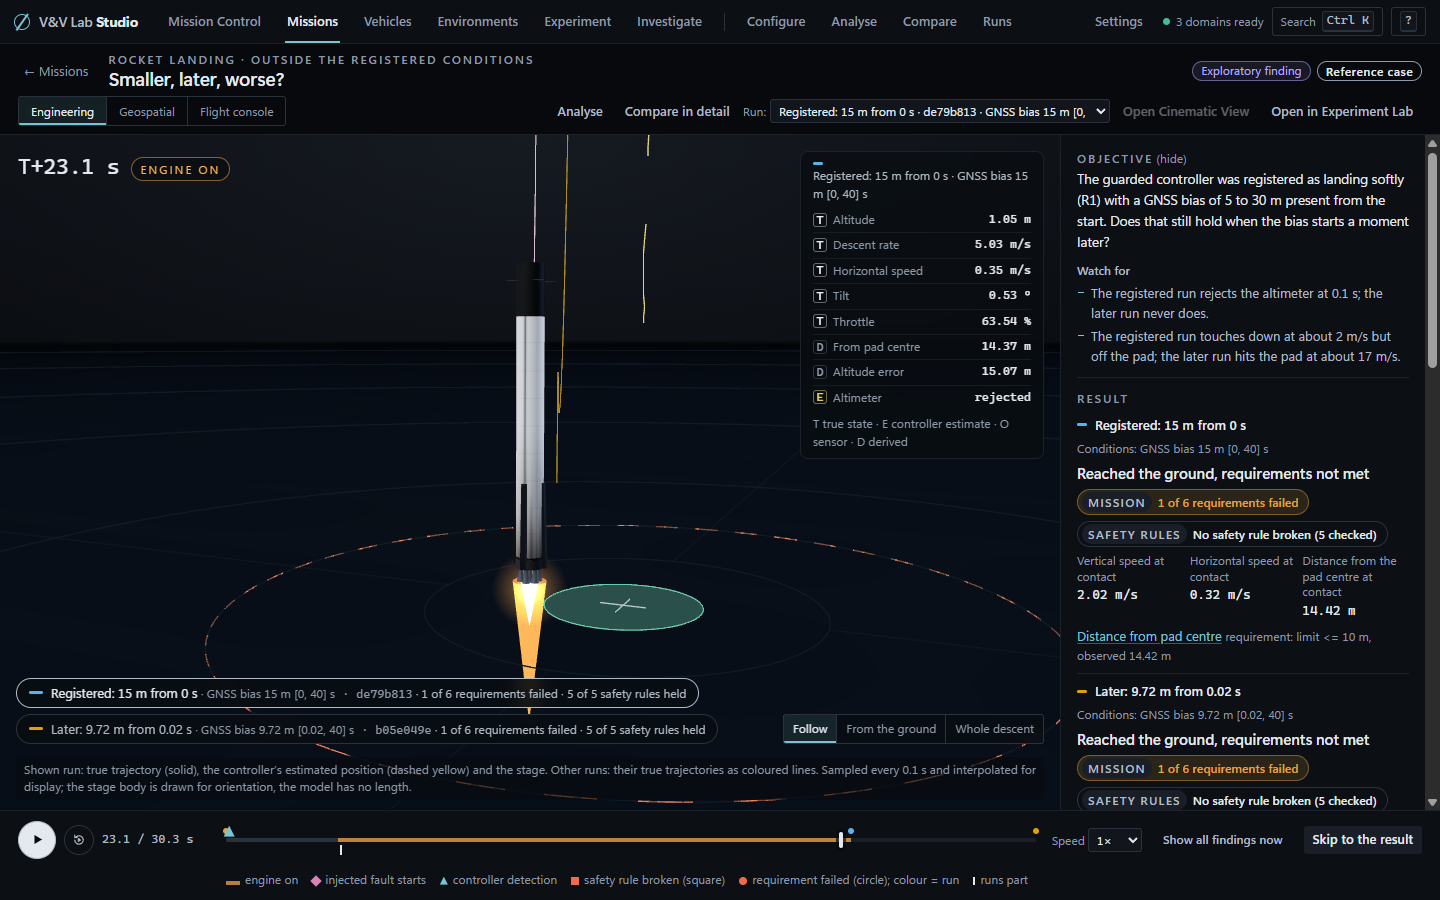
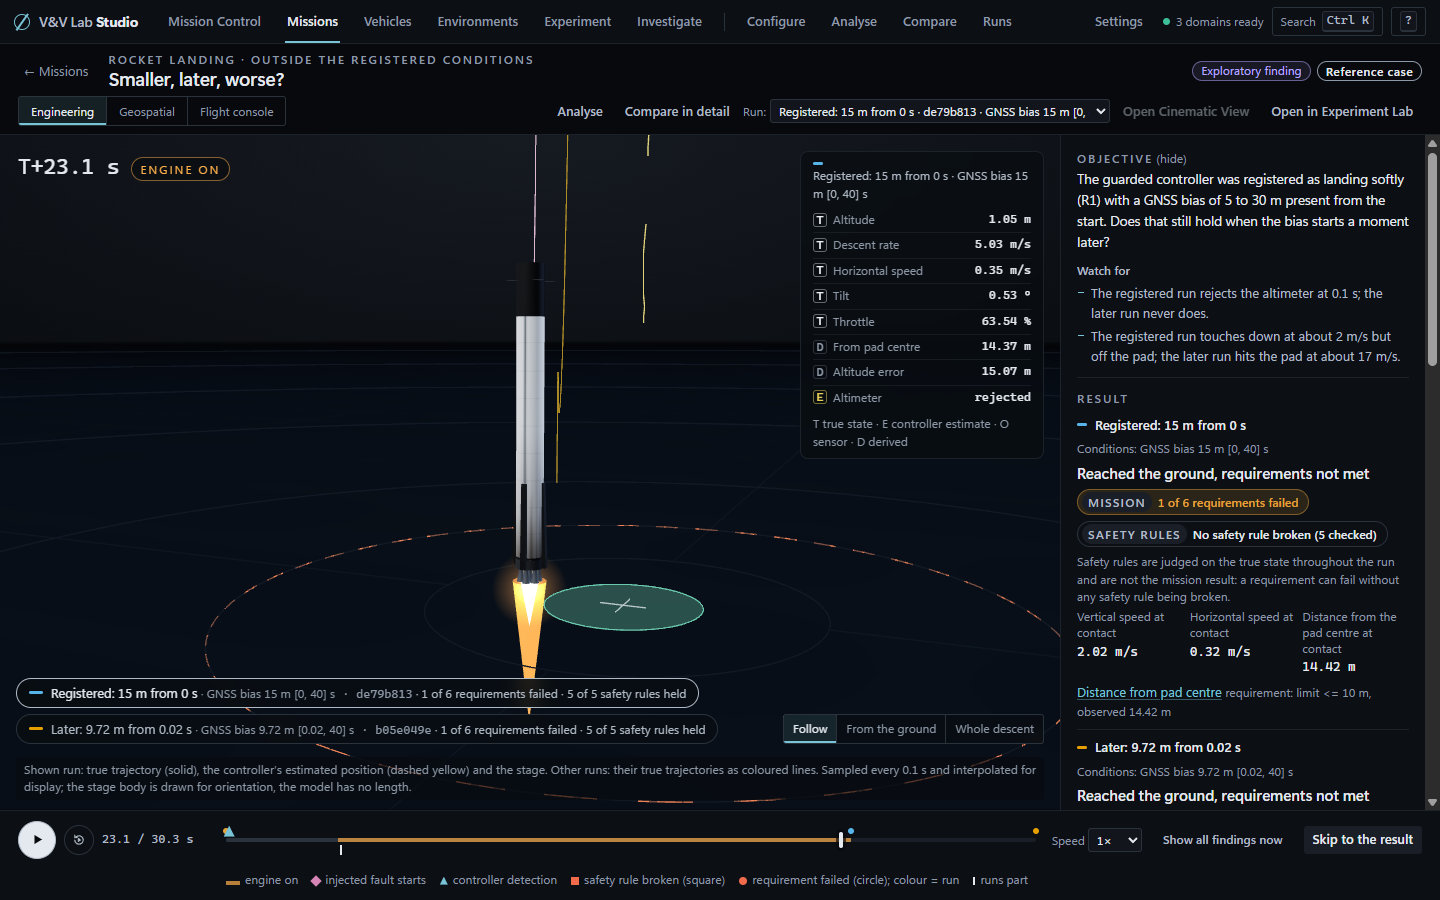
fix: scope note beside the safety chip, ground readings kept on short windows, neutral evidence integrity, labelled seed estimate

Changed region(s): [[0.75, 0.6222, 0.9688, 0.9022]]

diff --git a/desktop/studio/ui/js/views/player.js b/desktop/studio/ui/js/views/player.js
@@ -28,7 +28,7 @@ import { buildControl } from './control.js';
 import { sourcesInfo } from '../sources-info.js';
 import { openCatalogue } from '../env-catalogue.js';
 import { cinematicButton } from '../cinematic.js';
-import { reqView, safetyWording, SAFETY_NOTE, failureSentence, indexNumbers, statusLine, requirementWording, endChip, noFailureSentence, completionFacts, missionTone } from '../requirements.js';
+import { reqView, safetyWording, SAFETY_NOTE, failureSentence, indexNumbers, statusLine, requirementWording, endChip, noFailureSentence, completionFacts, missionTone, SAFETY_SCOPE } from '../requirements.js';
 import { conditionsName, conditionsBrief } from '../model.js';
 
 let root;
@@ -420,7 +420,7 @@ function build() {
 
   const stage = h('div', { class: 'pl-stage', id: 'pl-stage' });
   const viewport = h('div', { class: ['pl-viewport', rocket ? 'is-3d' : 'is-2d'], id: 'pl-viewport' });
-  const hud = h('div', { class: 'pl-hud', role: 'group', 'aria-label': 'Readouts at the playback time' });
+  const hud = h('div', { class: ['pl-hud', rocket ? 'is-rocket' : 'is-ground'], role: 'group', 'aria-label': 'Readouts at the playback time' });
   const phaseTag = h('div', { class: ['pl-phase', rocket ? '' : 'is-2d'], 'aria-hidden': 'true' });
   const runBar = runs.length > 1 ? h('div', { class: 'pl-runs', role: 'radiogroup', 'aria-label': 'Run shown in the scene' },
     runs.map((r, i) => h('button', { type: 'button', role: 'radio', class: 'pl-run', 'aria-checked': String(i === pl.active), dataset: { run: String(i) }, title: `${runFullName(r)} · ${shortId(r)}`, onclick: () => setActive(i) },
@@ -594,7 +594,7 @@ function onTime(t) {
   if (pl.dom.hud.hidden) { updateTransport(t); return; }
   pl.dom.hud.replaceChildren(
     h('p', { class: 'pl-hud-h' }, h('span', { class: 'pl-swatch', style: { background: run.colour } }), runFullName(run), ph.end && td ? h('span', { class: 'pl-hud-at' }, 'at contact') : null),
-    h('dl', null, readouts(run, t, rocket).map(([k, v, u, kind, title]) => h('div', { class: 'pl-hud-row', title },
+    h('dl', null, readouts(run, t, rocket).map(([k, v, u, kind, title], i) => h('div', { class: ['pl-hud-row', rocket && (i === 3 || i === 4) ? 'is-minor' : ''], title },
       h('dt', null, h('abbr', { class: `kind kind-${kind}`, title: KIND_WORD[kind] }, kind), k),
       h('dd', { class: 'mono' }, v === null ? '—' : typeof v === 'string' ? v : `${hudNum(v)}${u ? ` ${u}` : ''}`)))),
     h('p', { class: 'pl-hud-key' }, 'T true state · E controller estimate · O sensor · D derived'));
@@ -814,6 +814,8 @@ function runResult(run) {
     h('div', { class: 'pl-verdicts' },
       verdictChip(missionText, missionTone(rec), 'Mission'),
       verdictChip(safetyText, safetyTone, 'Safety rules', SAFETY_NOTE)),
+    // The scope of the safety chip, next to it: a mission requirement failed while no safety rule was broken.
+    sw.verdict === 'held' && missionTone(rec) === 'fail' ? h('p', { class: 'pl-fine pl-scope', dataset: { scope: '1' } }, SAFETY_SCOPE) : null,
     completionFacts(rec) ? h('p', { class: 'pl-run-clause small dim', dataset: { clause: '1' } }, completionFacts(rec).text) : null,
     metrics.length ? h('dl', { class: 'pl-metrics' }, metrics.map((m) => h('div', null, h('dt', null, m.label), h('dd', { class: 'mono' }, m.value === null ? '—' : `${hudNum(m.value)} ${m.unit}`)))) : null,
     failed.length ? h('ul', { class: 'pl-failed' }, failed.map((q) => h('li', null,
@@ -831,7 +833,7 @@ function changeSummary() {
       ? `${pl.runs[i].label} stays within ${d.tol} ${d.unit} of ${pl.runs[0].label} for the whole run.`
       : `${pl.runs[i].label} departs from ${pl.runs[0].label} by more than ${d.tol} ${d.unit} at ${timeText(d.t, pl.unit)}.`,
     d.t !== null ? ' ' : null,
-    d.t !== null ? h('button', { type: 'button', class: 'link small', onclick: () => { pl.cursor.pause(); pl.cursor.set(d.t); } }, 'Go there') : null));
+    d.t !== null ? h('button', { type: 'button', class: 'link small', title: 'Move the playback to the instant where the runs part', onclick: () => { pl.cursor.pause(); pl.cursor.set(d.t); } }, `Go to ${timeText(d.t, pl.unit)}`) : null));
   }
   return rows.length ? h('section', { class: 'pl-card' }, h('h2', null, 'Where the runs part'), h('ul', { class: 'pl-list' }, rows),
     h('p', { class: 'pl-fine' }, 'Derived from the recorded true positions, sample by sample. It marks where the motion differs, not why.')) : null;
@@ -846,11 +848,9 @@ function fillResult() {
       h('button', { type: 'button', class: 'btn', dataset: { action: 'reveal' }, onclick: () => revealNow() }, 'Show the result now')));
     return;
   }
-  const reqOnly = pl.runs.some((r) => r.record.safety.status === 'safe' && (r.record.requirements || []).some((q) => q.status === 'fail'));
   const heading = h('h2', { id: 'pl-result-h', tabindex: '-1' }, 'Result');
   pl.dom.resultHeading = heading;
-  clear(live).append(h('section', { class: 'pl-card pl-result', 'aria-labelledby': 'pl-result-h' }, heading, pl.runs.map((r) => runResult(r)),
-    reqOnly ? h('p', { class: 'pl-fine' }, 'A requirement can fail without any safety rule being broken. Mission requirements judge the landing or the goal; safety rules are judged on the true state throughout the run, so a hard or off-target landing can fail a requirement and still break no safety rule.') : null));
+  clear(live).append(h('section', { class: 'pl-card pl-result', 'aria-labelledby': 'pl-result-h' }, heading, pl.runs.map((r) => runResult(r))));
 }
 
 /** What follows the result: where the runs part and why it happened. Empty until the result is shown. */

diff --git a/desktop/studio/ui/js/views/discover.js b/desktop/studio/ui/js/views/discover.js
@@ -73,7 +73,7 @@ function chip(code, extra) {
 }
 
 function glyph(tone) {
-  const g = { ok: '✓', bad: '✕', warn: '◐', neutral: '○' }[tone] || '○';
+  const g = { ok: '✓', bad: '✕', warn: '◐', neutral: '○', held: '◇' }[tone] || '○';
   return h('span', { class: 'dl-glyph', 'aria-hidden': 'true' }, g);
 }
 
@@ -181,8 +181,9 @@ function rail() {
       h('span', { class: 'dl-item-title' }, p.title),
       h('span', { class: 'dl-item-sub mono' }, stamp(p.name)),
       h('span', { class: 'dl-item-chips' }, chip(verdictOf(p)),
-        vr ? h('span', { class: `dl-chip ${vr.pass ? 'ok' : 'bad'}` }, glyph(vr.pass ? 'ok' : 'bad'), vr.pass ? 'Recomputed' : 'Failed check')
-          : h('span', { class: `dl-chip ${stale ? 'warn' : 'neutral'}` }, glyph(stale ? 'warn' : 'neutral'), stale ? 'Changed since recomputed' : 'Not recomputed'))));
+        // Evidence integrity is not the verdict on the claim: a recomputation that passed is neutral, never the green of an approval.
+        vr ? h('span', { class: `dl-chip ${vr.pass ? 'held' : 'bad'}`, title: 'Whether the stored evidence was recomputed and agrees. It says nothing about whether the claim holds.' }, glyph(vr.pass ? 'held' : 'bad'), vr.pass ? 'Evidence integrity: recomputed' : 'Evidence integrity: a check failed')
+          : h('span', { class: `dl-chip ${stale ? 'warn' : 'neutral'}` }, glyph(stale ? 'warn' : 'neutral'), stale ? 'Evidence integrity: changed since recomputed' : 'Evidence integrity: not recomputed'))));
     }) : h('li', { class: 'empty small' }, 'No investigation yet. Choose a claim and challenge it.'));
   return h('aside', { class: 'dl-rail' },
     h('h2', { class: 'dl-rail-h' }, 'Claims'), claims,
@@ -410,7 +411,7 @@ function acceptance(p, vr) {
     tile('Evidence integrity', verified === null
       ? h('div', null, h('b', null, vr && vr.stale ? 'Changed since it was recomputed' : 'Not recomputed yet'), h('button', { type: 'button', class: 'btn btn-small', onclick: verify }, 'Recompute now'))
       : h('div', null, h('b', null, verified ? 'Recomputed, every check passed' : 'A check failed'), h('span', { class: 'small dim' }, `${vr.report.probes_recomputed.toLocaleString('en')} probes rerun · ${vr.verified_at_utc}`)),
-    verified === null ? (vr && vr.stale ? 'warn' : 'neutral') : verified ? 'ok' : 'bad'),
+    verified === null ? (vr && vr.stale ? 'warn' : 'neutral') : verified ? 'held' : 'bad'),
     tile('Claim', withdrawn ? gone('verdict') : h('div', null, h('b', null, word(f.verdict.claim)[0]), h('span', { class: 'small dim' }, word(f.verdict.claim)[2]), stated), withdrawn ? 'bad' : word(f.verdict.claim)[1]),
     tile('Mechanism', withdrawn ? gone('mechanism') : h('div', null, mech.length ? mech.map(([id, s2]) => h('div', { class: 'dl-tile-line' }, h('span', { class: 'mono small' }, id), chip(s2))) : h('b', null, 'No hypothesis declared')), withdrawn ? 'bad' : worst(mech)),
     tile('Mitigation', withdrawn ? gone('mitigation result') : h('div', null, mit.length ? mit.map(([id, s2]) => h('div', { class: 'dl-tile-line' }, h('span', { class: 'mono small' }, id), chip(s2))) : h('b', null, 'No mitigation declared')), withdrawn ? 'bad' : worst(mit)),

diff --git a/desktop/studio/ui/js/views/lab.js b/desktop/studio/ui/js/views/lab.js
@@ -654,14 +654,14 @@ function renderGeneralisation(el) {
   const fe = failsBy(g.exp);
   const labels = [...new Set([...fb.keys(), ...fe.keys()])];
   add(box, 
+    h('p', { class: 'lab-gen-caveat', dataset: { caveat: '1' } }, `An estimate on ${n} development seeds of an idealised model: not a reliability figure, and it does not validate the change.`),
     h('div', { class: 'lab-gen' },
-      h('div', null, h('p', { class: 'lab-gen-n' }, `${kb}/${n}`), h('p', { class: 'small' }, `baseline conditions meet every requirement and safety rule (95 % interval ${lb.toFixed(0)} to ${ub.toFixed(0)} %)`)),
-      h('div', null, h('p', { class: 'lab-gen-n' }, `${ke}/${n}`), h('p', { class: 'small' }, `your conditions meet every requirement and safety rule (95 % interval ${le.toFixed(0)} to ${ue.toFixed(0)} %)`))),
+      h('div', null, h('p', { class: 'lab-gen-n' }, `${kb}/${n} seeds`), h('p', { class: 'small' }, `with the baseline conditions meet every requirement and safety rule (95 % interval ${lb.toFixed(0)} to ${ub.toFixed(0)} %)`)),
+      h('div', null, h('p', { class: 'lab-gen-n' }, `${ke}/${n} seeds`), h('p', { class: 'small' }, `with your conditions meet every requirement and safety rule (95 % interval ${le.toFixed(0)} to ${ue.toFixed(0)} %)`))),
     h('p', { class: 'small' }, `Seed by seed: ${better} improved, ${worse} got worse, ${n - better - worse} unchanged. Seeds ${g.seeds[0]} to ${g.seeds[n - 1]}.`),
     labels.length ? h('table', { class: 'grid-table lab-table' }, h('thead', null, h('tr', null, h('th', null, 'Requirement not met'), h('th', null, 'Baseline runs'), h('th', null, 'Your runs'))),
       h('tbody', null, labels.map((l) => h('tr', null, h('td', null, l), h('td', { class: 'mono' }, String(fb.get(l) || 0)), h('td', { class: 'mono' }, String(fe.get(l) || 0)))))) : null,
     g.errors.length ? h('p', { class: 'small error-text' }, `${g.errors.length} run${g.errors.length > 1 ? 's' : ''} could not be computed: ${g.errors[0]}`) : null,
-    h('p', { class: 'small dim' }, `An estimate on ${n} development seeds of this idealised model. It is not a reliability figure and does not validate the change.`),
     h('div', { class: 'row' }, h('button', { type: 'button', class: 'btn btn-quiet', onclick: () => { lab.gen = null; renderResult(); } }, 'Clear')));
 }
 

diff --git a/desktop/studio/ui/js/views/compare.js b/desktop/studio/ui/js/views/compare.js
@@ -12,7 +12,7 @@ import { sceneFor, sceneKind } from '../scenes/registry.js';
 import { TimeCursor } from '../cursor.js';
 import { api } from '../api.js';
 import { toast, errorText, askName } from '../ui.js';
-import { indexNumbers, reqView, reqLabel, safetyWording, SAFETY_NOTE, headlineChange, statusLine, DERIVED_NOTE } from '../requirements.js';
+import { indexNumbers, reqView, reqLabel, safetyWording, SAFETY_NOTE, headlineChange, statusLine, DERIVED_NOTE, EXPECTATION_GLOSS } from '../requirements.js';
 
 const MAX = 8;
 let root;
@@ -90,7 +90,7 @@ function build() {
       h('h1', null, cmp.name || (cmp.demo ? cmp.demo.title : `Comparison of ${records.length} runs`)),
       h('span', { class: 'dim small' }, cmp.domainIds.length === 1 ? `${domainById(cmp.domainIds[0]) ? domainById(cmp.domainIds[0]).manifest.name : cmp.domainIds[0]}` : `${cmp.domainIds.length} domains`),
       h('div', { class: 'spacer' }), saveBtn),
-    cmp.demo ? h('div', { class: 'demo-banner' }, h('div', null, h('span', { class: 'dim' }, 'Expected, stated by the domain: '), prose(cmp.demo.expectation)),
+    cmp.demo ? h('div', { class: 'demo-banner' }, h('div', null, h('span', { class: 'dim' }, 'Expected, stated by the domain: '), prose(cmp.demo.expectation), h('div', { class: 'small dim demo-gloss' }, EXPECTATION_GLOSS)),
       cmp.demo.look_at.length ? h('div', { class: 'small' }, h('span', { class: 'dim' }, 'Look at: '), cmp.demo.look_at.map(prose).join(' · ')) : null) : null,
     h('div', { class: 'run-legend', role: 'list', 'aria-label': 'Runs in this comparison' }, records.map((r, i) => {
       const rec = r.record;

diff --git a/desktop/studio/ui/js/provenance.js b/desktop/studio/ui/js/provenance.js
@@ -32,9 +32,10 @@ export function provenancePanel(runId, record, meta) {
       const reeval = earlier ? rep.checks.find((c) => c.name === 'verdicts re-evaluated under current rules') : null;
       markStoredVerdicts(reeval ? reeval.detail : null);
       clear(replayOut).append(
-        h('div', { class: ['replay-verdict', reeval ? 'v-partial' : ok ? 'v-pass' : 'v-unsafe'] },
-          h('span', { class: 'glyph' }, icon(ok && !reeval ? 'check' : 'warn')),
-          h('strong', null, reeval ? 'Verified, but the stored verdicts are not the current ones' : earlier ? 'Verified against its own record' : ok ? 'Verified' : 'Rejected'),
+        // What was recomputed is the evidence, not the run's result: a pass is drawn neutral, not in the green of a met requirement.
+        h('div', { class: ['replay-verdict', reeval ? 'v-partial' : ok ? 'v-held' : 'v-unsafe'] },
+          h('span', { class: 'glyph' }, icon(ok && !reeval ? 'shield' : 'warn')),
+          h('strong', null, reeval ? 'Evidence integrity: verified, but the stored verdicts are not the current ones' : earlier ? 'Evidence integrity: verified against its own record' : ok ? 'Evidence integrity: verified' : 'Evidence integrity: rejected'),
           h('span', { class: 'dim' }, reeval
             ? 'Recorded by an earlier build. The timebases, channels, other metrics and events agree with the recomputation, but the verdicts listed below differ from the ones the current rules give; the outcome, requirements and metrics shown for this run are the stored ones.'
             : earlier

diff --git a/desktop/studio/ui/css/discover.css b/desktop/studio/ui/css/discover.css
@@ -30,6 +30,7 @@
 
 .dl-chip { display: inline-flex; align-items: center; gap: 5px; padding: 1px 8px 1px 6px; border-radius: 999px; font-size: 12px; line-height: 18px; border: 1px solid var(--rule-strong); color: var(--fg-2); background: var(--bg-2); white-space: nowrap; }
 .dl-chip.ok { color: var(--pass); border-color: color-mix(in srgb, var(--pass) 45%, transparent); background: var(--pass-wash); }
+.dl-chip.held { color: var(--fg-1); border-color: var(--rule-strong); background: transparent; }
 .dl-chip.bad { color: var(--unsafe); border-color: color-mix(in srgb, var(--unsafe) 45%, transparent); background: var(--unsafe-wash); }
 .dl-chip.warn { color: var(--fail); border-color: color-mix(in srgb, var(--fail) 45%, transparent); background: var(--fail-wash); }
 .dl-glyph { font-size: 12px; line-height: 1; }
@@ -38,6 +39,7 @@
 .dl-tile { border: 1px solid var(--rule); border-radius: var(--r); padding: 12px; background: var(--bg-1); display: grid; gap: 6px; align-content: start; position: relative; overflow: hidden; }
 .dl-tile::before { content: ""; position: absolute; left: 0; right: 0; top: 0; height: 2px; background: var(--rule-strong); }
 .dl-tile.ok::before { background: var(--pass); }
+.dl-tile.held::before { background: var(--fg-3); }
 .dl-tile.bad::before { background: var(--unsafe); }
 .dl-tile.warn::before { background: var(--fail); }
 .dl-tile-k { font-size: 12px; text-transform: uppercase; letter-spacing: .09em; color: var(--fg-3); font-weight: 600; }

diff --git a/desktop/studio/ui/js/requirements.js b/desktop/studio/ui/js/requirements.js
@@ -239,6 +239,12 @@ export const DERIVED_NOTE = 'D: derived by Studio from the recorded values (the 
 
 export const SAFETY_NOTE = 'Safety rules are judged on the true state throughout the run. Mission requirements are judged separately: a requirement can fail without any safety rule being broken.';
 
+/** Said next to the safety chip of a run that failed a requirement: the scope of "no safety rule broken". */
+export const SAFETY_SCOPE = 'Safety rules are judged on the true state throughout the run and are not the mission result: a requirement can fail without any safety rule being broken.';
+
+/** Said under a demonstration text written by a domain, whose words about safety mean only that no safety rule was broken. */
+export const EXPECTATION_GLOSS = 'Words about safety in this text mean only that no safety rule was broken; the mission requirements are separate verdicts.';
+
 /** The name of a requirement for people: the label, never the id ("R1_vertical_speed"). */
 export function plainName(q) {
   return q.label || String(q.id || '').replace(/^[a-z_]+\./, '').replace(/^[A-Z]\d+_/, '').replace(/_/g, ' ');

diff --git a/desktop/studio/ui/js/views/run.js b/desktop/studio/ui/js/views/run.js
@@ -13,6 +13,7 @@ import { provenancePanel } from '../provenance.js';
 import { sceneFor, sceneKind } from '../scenes/registry.js';
 import { errorText } from '../ui.js';
 import { api, logUiError } from '../api.js';
+import { EXPECTATION_GLOSS } from '../requirements.js';
 
 let root;
 let ws = null; // {runId, record, model, cursor, telemetry, timeline, scene, tabs}
@@ -193,7 +194,7 @@ function demoBanner(demo) {
     else look.append(h('span', { class: 'small' }, text));
   }
   return h('div', { class: 'demo-banner' },
-    h('div', null, h('b', null, `Demonstration: ${demo.title}. `), h('span', { class: 'dim' }, 'Expected: '), prose(demo.expectation)),
+    h('div', null, h('b', null, `Demonstration: ${demo.title}. `), h('span', { class: 'dim' }, 'Expected: '), prose(demo.expectation), h('div', { class: 'small dim demo-gloss' }, EXPECTATION_GLOSS)),
     demo.look_at.length ? h('div', { class: 'look' }, h('span', { class: 'dim small' }, 'Look at:'), look) : null);
 }
 

diff --git a/desktop/studio/ui/js/views/prepare.js b/desktop/studio/ui/js/views/prepare.js
@@ -7,6 +7,7 @@ import { api } from '../api.js';
 import { state, pref, setPref, visibleDomains, domainById, on, emit } from '../store.js';
 import { toast, errorText, askName } from '../ui.js';
 import { faultText, conditionsName } from '../model.js';
+import { EXPECTATION_GLOSS } from '../requirements.js';
 
 const REQUEST_SCHEMA = 'vv-run-request.v1';
 const MAX_COMPARE = 8;
@@ -273,7 +274,8 @@ function demoCard(d, demo) {
         h('p', null, prose(demo.narrative)),
         demo.look_at.length ? [h('h4', null, 'What to look at'), h('ul', null, demo.look_at.map((x) => h('li', null, prose(x))))] : null,
         h('h4', null, 'Expected result, stated by the domain'),
-        h('p', { class: 'expect' }, prose(demo.expectation)))),
+        h('p', { class: 'expect' }, prose(demo.expectation)),
+        h('p', { class: 'small dim demo-gloss' }, EXPECTATION_GLOSS))),
     h('div', null, runBtn));
 }
 

diff --git a/desktop/studio/ui/css/app.css b/desktop/studio/ui/css/app.css
@@ -395,6 +395,7 @@ span.req-t { border-color: transparent; color: var(--fg-3); cursor: default; }
 .cmds code { display: block; background: var(--bg-2); border: 1px solid var(--rule); border-radius: var(--r); padding: 5px 8px; overflow-wrap: anywhere; font-size: 12px; }
 .replay-verdict { display: flex; gap: 8px; align-items: center; padding: 8px 10px; border-radius: var(--r); border: 1px solid var(--rule); }
 .replay-verdict.v-pass { border-color: var(--pass); background: var(--pass-wash); }
+.replay-verdict.v-held { border-color: var(--rule-strong); background: transparent; }
 .replay-verdict.v-unsafe { border-color: var(--unsafe); background: var(--unsafe-wash); }
 .replay-verdict.v-partial { border-color: var(--fail); background: var(--fail-wash); }
 .replay-reeval { margin: 6px 0 0; padding: 6px 10px; border-left: 3px solid var(--fail); background: var(--fail-wash); font-size: 13px; }

diff --git a/desktop/studio/ui/css/mission.css b/desktop/studio/ui/css/mission.css
@@ -243,8 +243,10 @@
   .pl-runs { max-width: calc(100% - 32px); bottom: 74px; }
 }
 @media (max-height: 720px) {
-  .pl-hud-row:nth-child(4), .pl-hud-row:nth-child(5) { display: none; }
-  .pl-hud-key { display: none; }
+  /* Only the stage's tilt and throttle rows and the tag key are left out of a short window. The ground vehicle's readings (To goal,
+     Confidence) are the key to a failed mission completion, so they stay. */
+  .pl-hud-row.is-minor { display: none; }
+  .pl-hud.is-rocket .pl-hud-key { display: none; }
   .pl-head { padding: 4px 14px; row-gap: 3px; }
 }
 @media (max-width: 760px) {

diff --git a/desktop/studio/ui/css/lab.css b/desktop/studio/ui/css/lab.css
@@ -70,6 +70,7 @@
 .lab-gen { display: grid; grid-template-columns: 1fr 1fr; gap: 12px; }
 .lab-gen p { margin: 0; }
 .lab-gen-n { font: 600 26px/1.1 var(--mono); color: var(--fg-1); }
+.lab-gen-caveat { margin: 0 0 6px; font-size: 13.5px; font-weight: 600; color: var(--fg-1); }
 .lab-sweep-ctl .select { width: auto; max-width: 240px; }
 .lab-chart { width: 100%; max-width: 520px; height: auto; display: block; }
 .lab-chart-zero { stroke: var(--fail); stroke-dasharray: 4 3; stroke-width: 1; }
